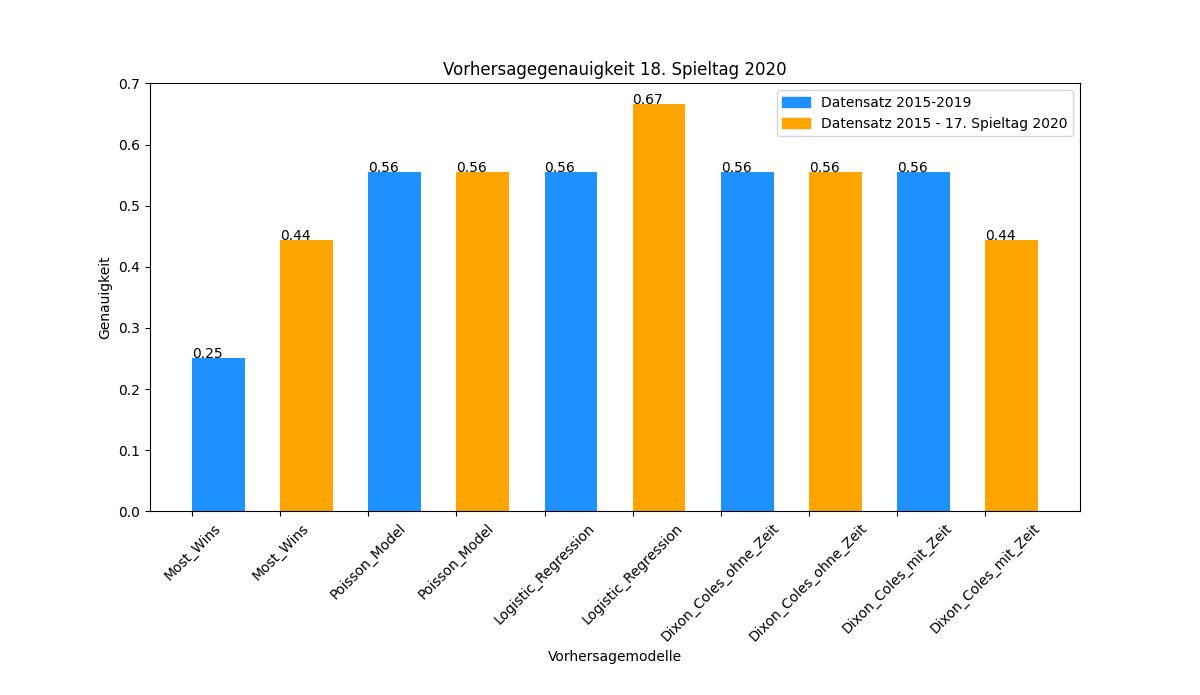
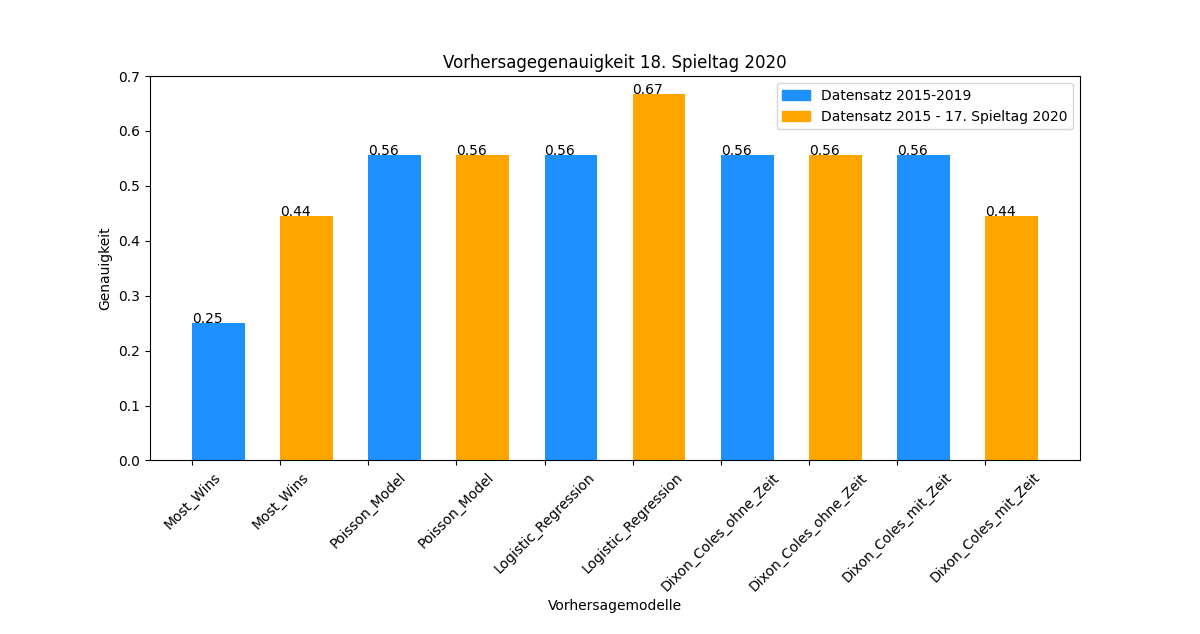
fixed matchday bug

diff --git a/teamproject/model_compare.py b/teamproject/model_compare.py
@@ -19,10 +19,10 @@ model_dict = {
 
 
 
-def compare_algo_precision_for_2020(seasons, last_matchday=34, include_matchdays=False):
+def compare_algo_precision_for_2020(seasons, last_matchday, include_matchdays=False):
     """
     :seasons array mit saisons
-    :last_matchday int mit letztem spieltag, default=34
+    :last_matchday int mit letztem spieltag
     :include_matchdays bool rechne spieltage der neuen saisons mit ein, default=False
     """
     precision_dict = {}
@@ -127,7 +127,7 @@ def matchday_analysis(season, day):
                             w_most_wins: {outcome},
                             w_poisson
                            }}'''
-    precision_without_2020 = compare_algo_precision_for_2020(season)
+    precision_without_2020 = compare_algo_precision_for_2020(season, 34)
     without_2020_dict = create_matchday_dataset(day)
 
     precision_with_2020 = compare_algo_precision_for_2020(season, day-1, True)
@@ -333,8 +333,8 @@ if __name__ == '__main__':
     days = [8, 18]
     for day in days:
         without_2020_dict, with_2020_dict = matchday_analysis([2019, 2018, 2017, 2016, 2015], day)
-        #matchday_dict_to_csv(without_2020_dict, 'bl1_2020_md{}_without2020_prediction'.format(day))
-        #matchday_dict_to_csv(with_2020_dict, 'bl1_2020_md{}_with2020_prediction'.format(day))
+        matchday_dict_to_csv(without_2020_dict, 'bl1_2020_md{}_without2020_prediction'.format(day))
+        matchday_dict_to_csv(with_2020_dict, 'bl1_2020_md{}_with2020_prediction'.format(day))
         precision_matchday_without_2020 = compare_matchday(without_2020_dict)
         precision_matchday_with_2020 = compare_matchday(with_2020_dict)
         print("Genauigkeit mit Datensatz 2019-2015 zu Spieltag {}: ".format(day) + str(precision_matchday_without_2020))
